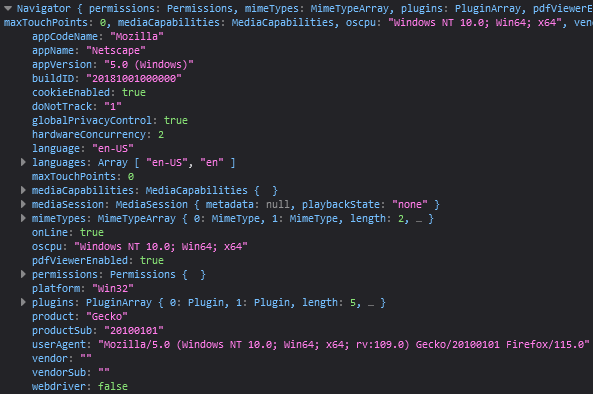
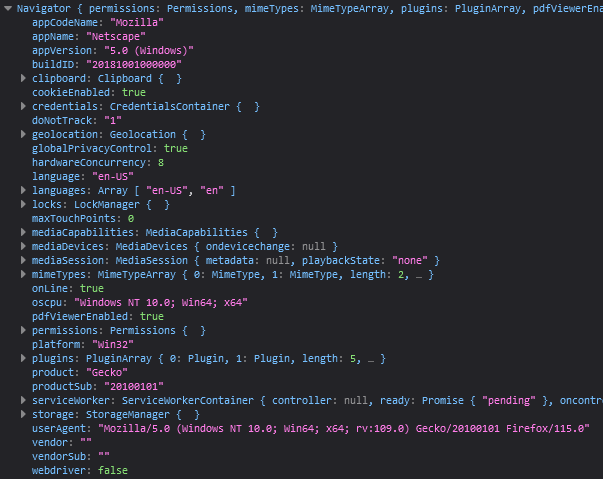
fix Mercury shot

Changed region(s): [[0.0, 0.0, 1.0, 1.0]]

diff --git a/js_serviceworker/browsers_navigator_outputs/readme.md b/js_serviceworker/browsers_navigator_outputs/readme.md
@@ -35,9 +35,16 @@ Using `console.log(navigator)` to any browser you see what you share with pages.
 ## [Ungoogled](https://github.com/ungoogled-software/ungoogled-chromium) v91 (blink)
 ![image](assets/ungoogled.png)
 
-only `Mercury` / `Basilik` / `Pale Moon` **not** expose the **service worker**. And interestingly we see all output 
+only `Basilik` / `Pale Moon` **not** expose the **service worker**. And interestingly we see all output 
 ```js
 product: "Gecko"
 ``` 
 
 because of javascript engine ;) 
+
+---
+
+* Running `brave` on **Private Window** still exposes **service worker**
+* Running `Mercury` on **Private Window** not exposes **service worker**
+
+![image](assets/mercury_private.png)
